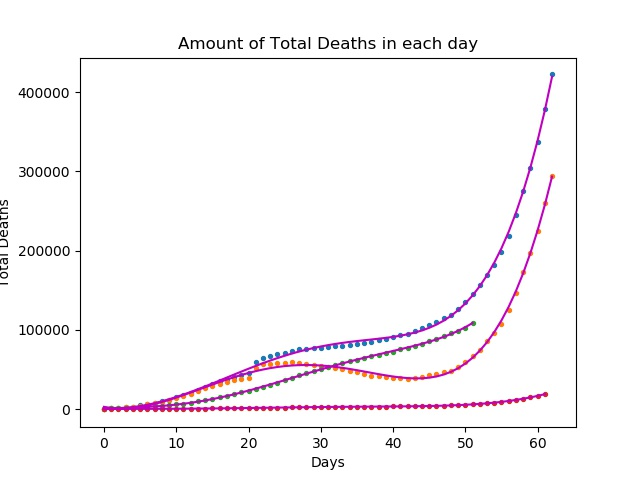
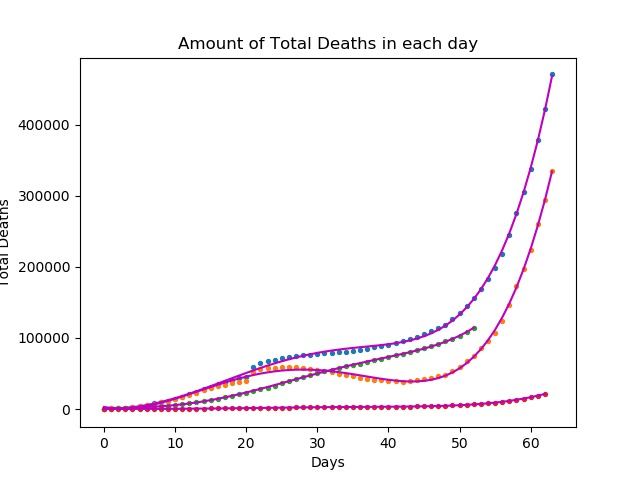
update 26/03/2020

diff --git a/main.py b/main.py
@@ -3,7 +3,6 @@ import json
 import numpy as np
 import matplotlib.pyplot as plt
 
-from sklearn.linear_model import LinearRegression
 from sklearn.linear_model import Ridge
 import time
 

diff --git a/README.md b/README.md
@@ -12,32 +12,40 @@ COVID-19, the disease that can result from the coronavirus worldwide new pandemi
 
 
 
-Our predictions for 25/03/2020 : 
+Our predictions for 26/03/2020 : 
 
-The predictions for Total Cases in the following 1 days is:
-466883
+The predictions for Total Cases today is:
+521552
 
-The predictions for Total Active Cases in the following 1 days is:
-333371
+The predictions for Total Active Cases today is:
+379021
 
-The predictions for Total Cured Cases in the following 1 days is:
-114684
+The predictions for Total Cured Cases today is:
+121254
 
-The predictions for Total Deaths in the following 1 days is:
-21202
+The predictions for Total Deaths  today is:
+23992
 
-The predictions for Total Critical Cases in the following 1 days is:
-15664
+The predictions for Total Critical Cases  today is:
+17778
 
 
 
+```
 ![Total Cases](https://github.com/Manai-Hamza/COVID-19-Doomsday-Predictions/blob/master/graphs/Total%20Cases.jpg?raw=true)
+```
+
 
 
 
 
 |    Date    | Predicted Total Cases | Real Total Cases | Predicted Total Recovered | Real Total Recovered | Predicted  Total Deaths | Real Total Deaths | Predicted Active Cases | Real Total Cases | Predicted  Critical Cases | Real Critical Cases |
 | :--------: | :-------------------: | :--------------: | :-----------------------: | :------------------: | :---------------------: | :---------------: | :--------------------: | :--------------: | :-----------------------: | :-----------------: |
-| 26/03/2020 |        466883         |        ??        |          114684           |          ??          |          21202          |        ??         |         333371         |        ??        |           15664           |         ??          |
+| 26/03/2020 |        521552         |        ??        |          121254           |          ??          |          23992          |        ??         |         379021         |        ??        |           17778           |         ??          |
+| 25/03/2020 |        466883         |      471035      |          114684           |        114228        |          21202          |       21284       |         333371         |      335523      |           15664           |        14792        |
 | 24/03/2020 |        419859         |      422574      |          108171           |        108879        |          18646          |       18894       |         292093         |      294801      |           14062           |        13095        |
 | 23/03/2020 |        374118         |      378860      |          104630           |        102069        |          16485          |       16514       |         252519         |      260277      |           12252           |        12062        |
+
+## How to use
+
+1. Run `python main.py`
